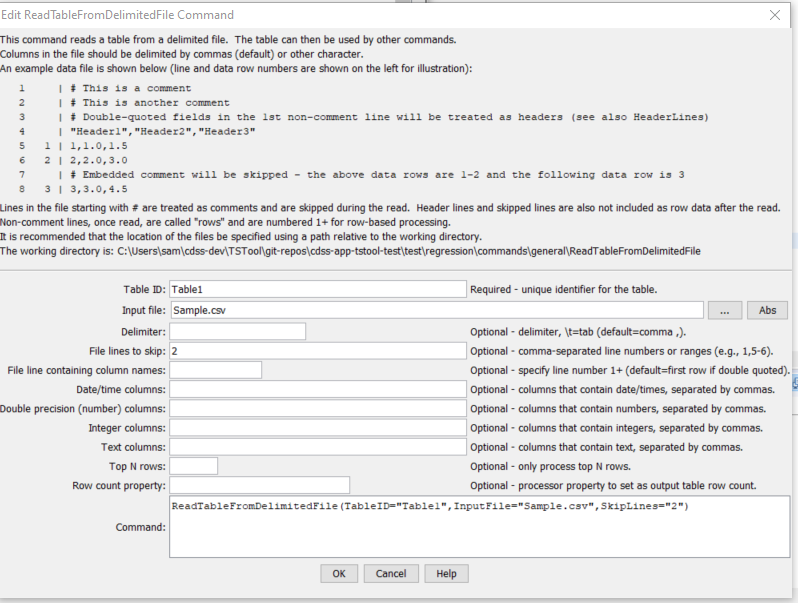
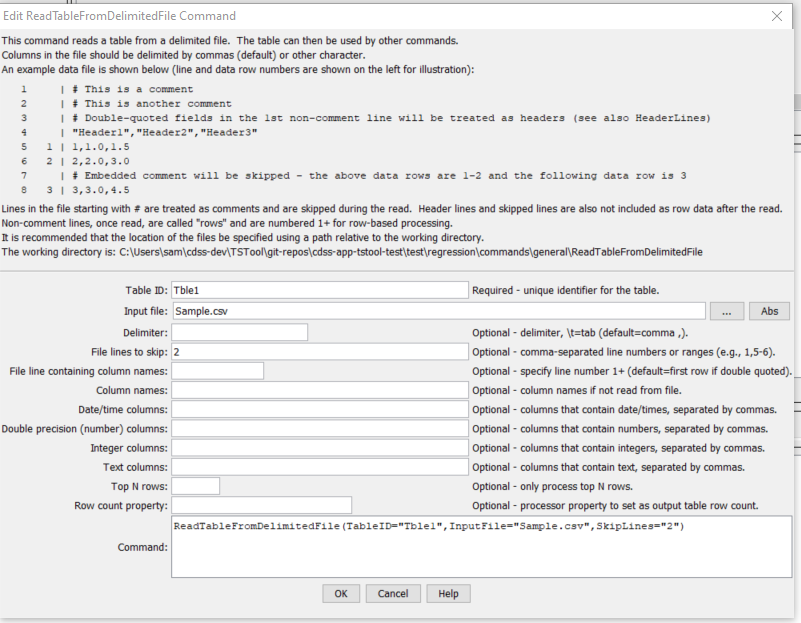
Update ReadTableFromDelimitedFile to have CommandNames, issue #57

diff --git a/mkdocs-project/docs/command-ref/ReadTableFromDelimitedFile/ReadTableFromDelimitedFile.md b/mkdocs-project/docs/command-ref/ReadTableFromDelimitedFile/ReadTableFromDelimitedFile.md
@@ -64,7 +64,8 @@ Command Parameters
 |`InputFile`<br>**required**|The name of the file to read, as an absolute path or relative to the command file location.  Can be specified using processor `${Property}`.|None – must be specified.|
 |`Delimiter`|The delimiter character between columns.  Specify `\t` to indicate tab.  Can be specified using processor `${Property}`.|`,` (comma)|
 |`SkipLines`|Indicates the number of lines in the file to skip, which otherwise would interfere with reading row data.  Individual row numbers and ranges can be specified, for example:  `1,5-6,17`|No lines are skipped.|
-|`HeaderLines`|Indicate the rows that include header information, which should be used for column names.  Currently this should only be one row, although a range may be fully supported in the future.|If the first non-comment line contains quoted field names, they are assumed to be headers.  Otherwise, no headers are read.|
+|`HeaderLines`|Indicate the rows that include header information, which should be used for column names.  Currently this should only be one row, although a range may be fully supported in the future. If the column names are not found in the file, use the `ColumnNames` parameter. |If the first non-comment line contains quoted field names, they are assumed to be headers.  Otherwise, no headers are read.|
+|`ColumnNames`|Column names, separated by commas.  Use this parameter when column names are not provided in the data file with the `HeaderLinees` parameter (or `HeaderLines` default behavior).|
 |`DateTimeColumns`|List of comma-separated column names for columns that should be treated as containing date/time values.  Can be specified using processor `${Property}`.|Date/times default to string (text) columns.|
 |`DoubleColumns`|List of comma-separated column names for columns that should be treated as containing floating point double precision values.  Can be specified using processor `${Property}`.|Automatically determine column types from data.|
 |`IntegerColumns`|List of comma-separated column names for columns that should be treated as containing integer values.  Can be specified using processor `${Property}`.|Automatically determine column types from data.|

diff --git a/mkdocs-project/docs/appendix-release-notes/release-notes-13.md b/mkdocs-project/docs/appendix-release-notes/release-notes-13.md
@@ -67,6 +67,8 @@ to add `IncludeDataTypes` and `ExcludeDataTypes` parameters, which limits the ti
 * ![change](change.png) [13.03.00] Update the [`ReadTableFromDBF`](../command-ref/ReadTableFromDBF/ReadTableFromDBF.md) command to covert column data types.
 * ![change](change.png) [13.03.00] Update the [`RunningStatisticTimeSeries`](../command-ref/RunningStatisticTimeSeries/RunningStatisticTimeSeries.md) command
 to add statistics:  `Change`, `ChangeAbs`, `ChangeFraction`, `ChangeFractionAbs`, `ChangePercent`, `ChangePercentAbs`, `NewMax`, and `NewMin`.
+* ![change](change.png) [13.03.00] Update the [`ReadTableFromDelimitedFile`](../command-ref/ReadTableFromDelimitedFile/ReadTableFromDelimitedFile.md) command
+to have `ColumnNames` parameter to specify column names when they are not in the file
 * ![change](change.png) [13.03.00] Update the [`SetProperty`](../command-ref/SetProperty/SetProperty.md) command to allow math parameters to be specified as properties.
 * ![change](change.png) [13.03.00] Update the [`SetTableValues`](../command-ref/SetTableValues/SetTableValues.md) command to
 add `Column` and `Value` parameters to set a single column value, useful for complex values such as arrays
